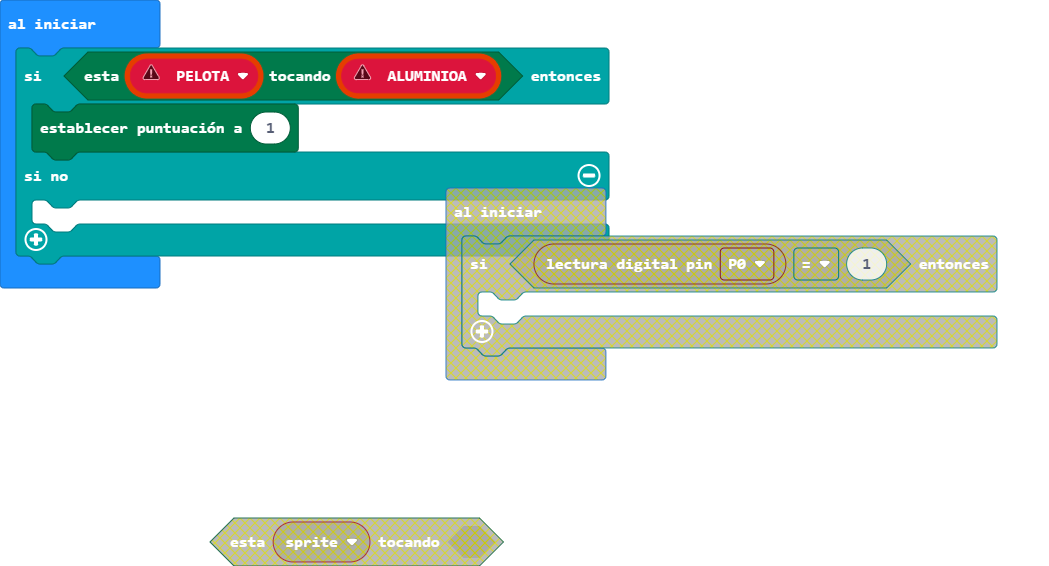
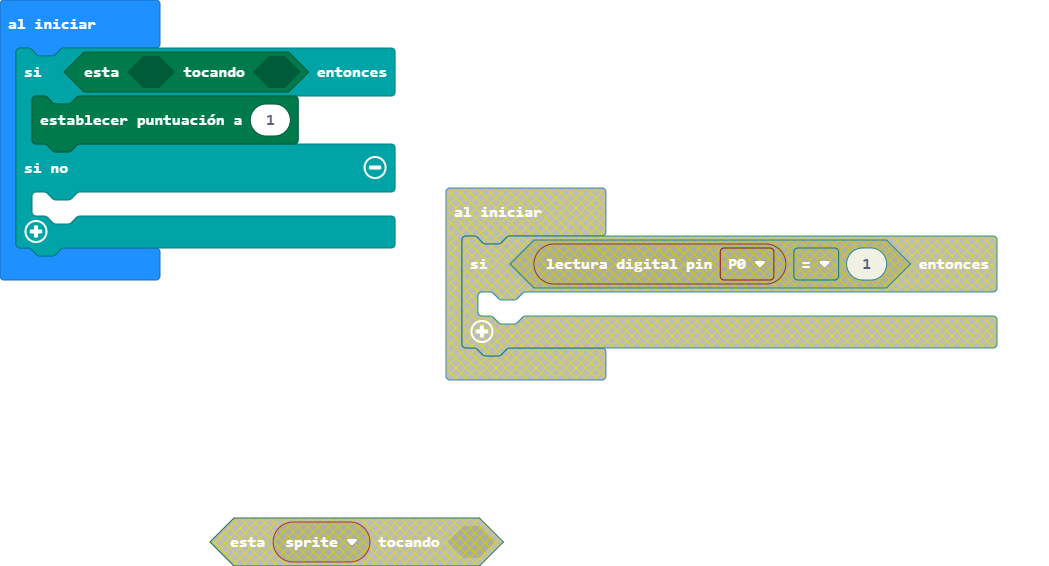
Actualizar main.blocks, main.ts

Changed region(s): [[0.0, 0.0601, 0.5796, 0.5106]]

diff --git a/main.ts b/main.ts
@@ -1,6 +1,4 @@
-let ALUMINIOA: game.LedSprite = null
-let PELOTA: game.LedSprite = null
-if (PELOTA.isTouching(ALUMINIOA)) {
+if (null.isTouching(null)) {
     game.setScore(1)
 } else {
 	
